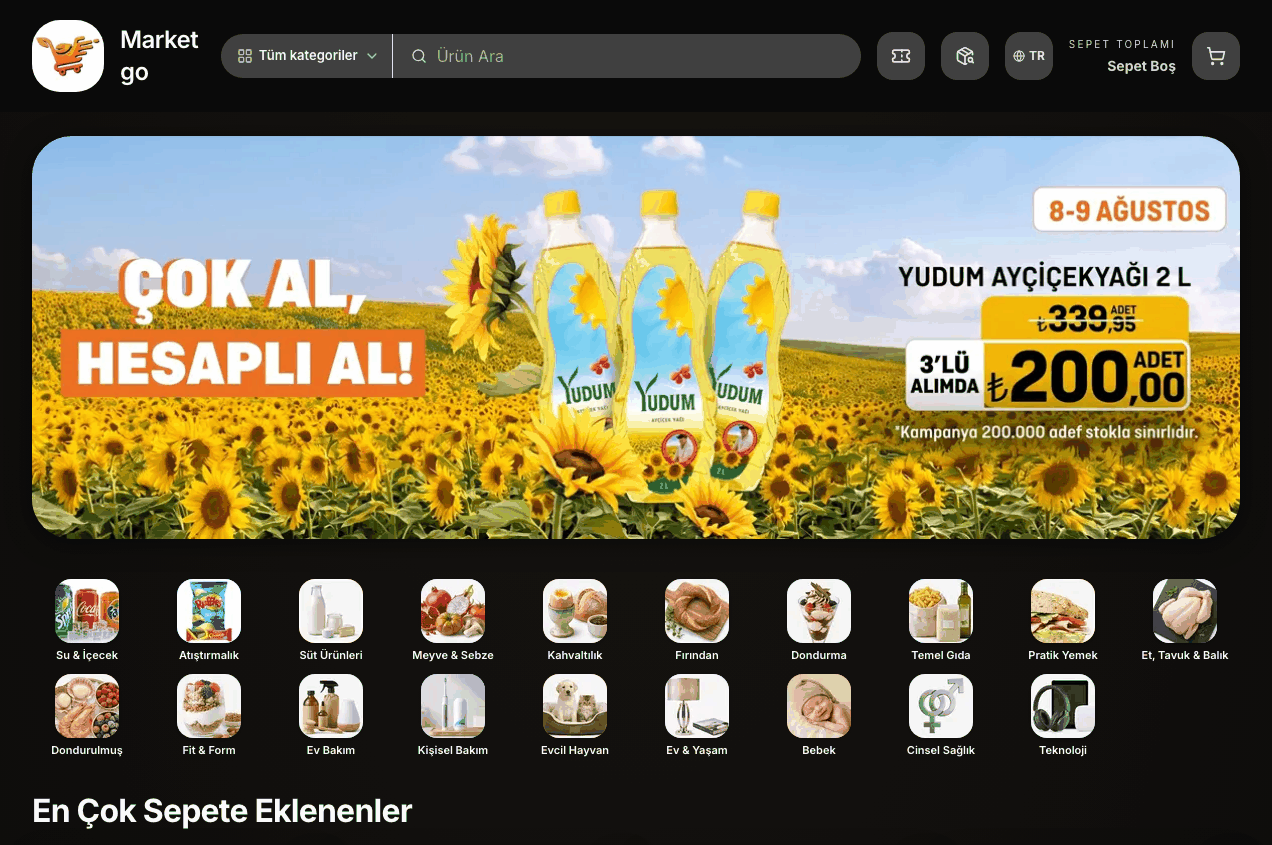
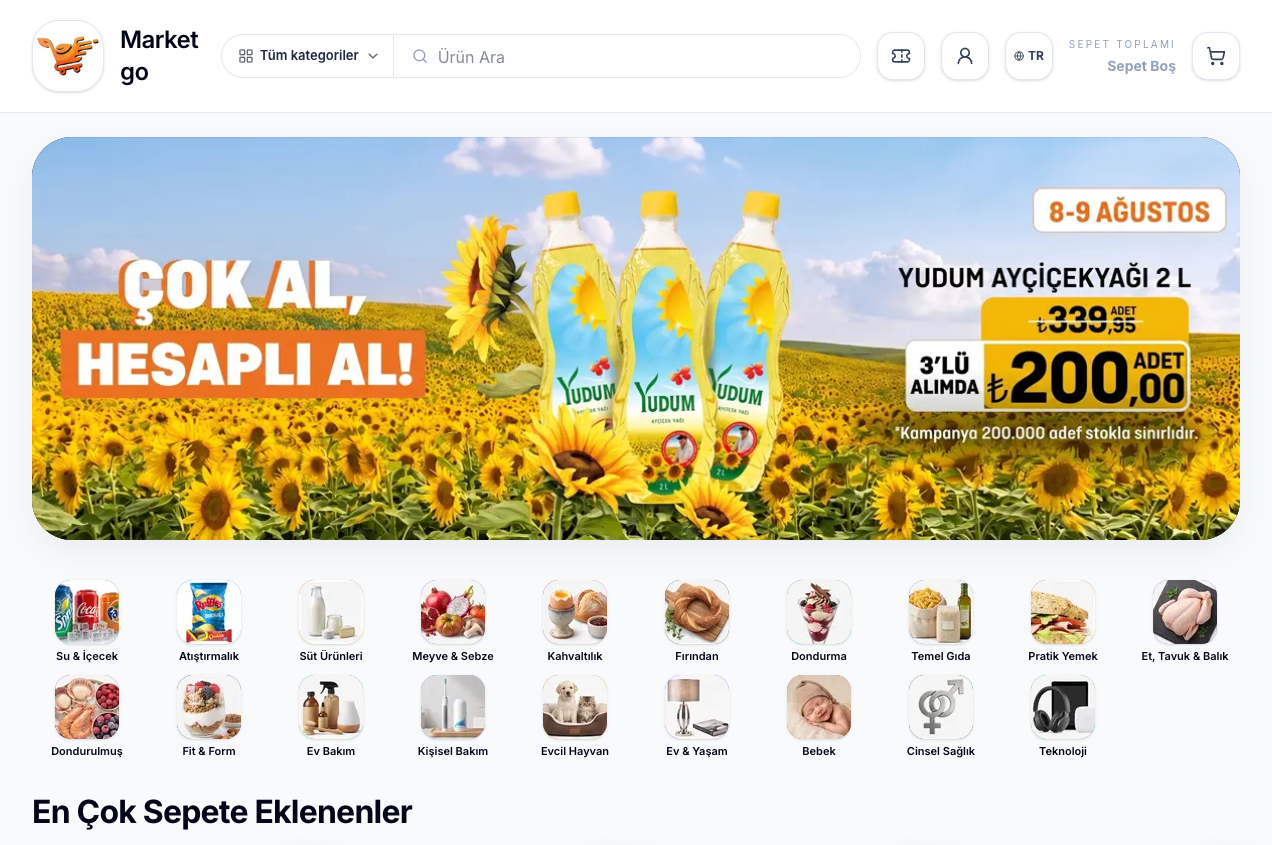
Pazarlama sitesi: market tanıtımı yeni özelliklerle (üyelik, sipariş takibi, adresler, Getir tarzı sipariş ekranı, yardım sayfaları), online ödeme iyzico/PayTR/Paynet; marketgo ekran görüntüleri beyaz temayla yenilendi

diff --git a/app/(marketing)/sektorler/market-bakkal/page.tsx b/app/(marketing)/sektorler/market-bakkal/page.tsx
@@ -1,33 +1,38 @@
 import Image from "next/image";
 import Link from "next/link";
-import { MapPin, ShoppingBasket, Bell, Clock3, PackageCheck, QrCode, ArrowUpRight, Languages } from "lucide-react";
+import { MapPin, Bell, Clock3, PackageCheck, QrCode, ArrowUpRight, Languages, Smartphone, UserRound, CreditCard, Pencil, LifeBuoy } from "lucide-react";
 import { ButtonLink, Container } from "@/components/marketing/ui";
 import { marketingMetadata } from "@/lib/marketing/metadata";
 import { SITE } from "@/lib/marketing/site";
 import { Accent, BandCard, Breadcrumb, ClosingCta, CustomerMarquee, FaqList, PageHero, TintBox, pastelStyle } from "@/components/marketing/home-v2/page-kit";
 
-export const metadata = marketingMetadata("/sektorler/market-bakkal", "Market ve Bakkal Sipariş Programı: Online Katalog", "Marketiniz için online katalog, konumlu WhatsApp siparişi, mobil sepet ve kampanya bildirimleri. Kurumsal pakette marketlere 200 QR magnet hediye.");
+export const metadata = marketingMetadata("/sektorler/market-bakkal", "Market ve Bakkal Sipariş Programı: Online Katalog", "Marketiniz için online katalog: müşteri üyeliği ve sipariş takibi, kayıtlı adresler, kapıda veya online ödeme (iyzico, PayTR, Paynet), konumlu WhatsApp siparişi ve bildirimler. Kurumsal pakette 200 QR magnet hediye.");
 const features = [
-  { icon: Languages, title: "Yabancı müşterileriniz için İngilizce, Almanca ve Rusça", body: "Kataloğunuzda yabancı müşterileriniz için İngilizce, Almanca ve Rusça dil seçenekleri mevcuttur. Müşterileriniz dil menüsünden tercih ettikleri dili seçerek kataloğunuzu kullanabilir." },
-  { icon: MapPin, title: "Siparişin yanında müşterinizin konumu", body: "Müşteriniz isterse cihazından konum paylaşımına izin verir. Konum bağlantısı WhatsApp sipariş mesajına eklenir; yazılı adresle birlikte teslimat için kullanabilirsiniz." },
-  { icon: ShoppingBasket, title: "Mobilde her an erişilen sepet", body: "Müşteriniz ürünleri incelerken ekranın altındaki sabit sepet alanına kolayca ulaşır. Ürün adetlerini düzenler, toplamını görür ve sipariş bilgilerine geçer." },
-  { icon: PackageCheck, title: "Siparişler tek yerde, durumları takipte", body: "Bildirim izni veren müşterilerinize “Siparişiniz onaylandı”, “Siparişiniz hazırlanıyor” ve “Siparişiniz yola çıktı” bildirimleri gönderin. Müşteriniz Sipariş Takip sayfasından da siparişinin hangi aşamada olduğunu görsün." },
-  { icon: Bell, title: "Bir süredir sipariş vermeyen müşterinizi geri kazanın", body: "Bildirim izni veren müşterilerinize hafta sonuna özel kampanya bildirimleri gönderin. Sürekli sipariş veren ama uzun zamandır alışveriş yapmayan müşterilerinize marketinizi hatırlatın, yeniden sipariş vermelerini teşvik edin. Bildirim gönderme Profesyonel ve Kurumsal paketlerde bulunur." },
-  { icon: Clock3, title: "Çalışma saatleri ve kapalı mağaza durumu", body: "Mağazanızın çalışma saatlerini belirleyin; kapalı olduğunuzda müşterinizi bilgilendirin. Sipariş almaya ilişkin ayarları işletmenizin çalışma düzenine göre yönetin." },
-  { icon: ShoppingBasket, title: "Sipariş koşullarını siz belirleyin", body: "Minimum sepet tutarını ve müşteriden istenen bilgilerin zorunluluğunu ayarlayın. Teslimat ücreti ve ücretsiz teslimat eşiğiyle sipariş maliyetlerini müşterinize açıkça gösterin." },
+  { icon: Smartphone, title: "Uygulama gibi alt menü", body: "Müşteriniz Ana sayfa, Arama, Sepet, Hesabım ve Kampanyalar'a ekranın altındaki menüden tek dokunuşla ulaşır. Sepet tutarı sağ üstte her an görünür; ana ekrana eklendiğinde uygulama gibi açılır." },
+  { icon: UserRound, title: "Müşteri üyeliği ve Hesabım", body: "Müşteriniz telefon numarası ve şifresiyle üye olur. Hesabım'da siparişlerini, adreslerini, bilgilerini ve bildirim tercihlerini yönetir. Üye olmadan da sipariş verebilir; siparişten sonra bilgileri dolu kayıt ekranı çıkar." },
+  { icon: PackageCheck, title: "Siparişini adım adım takip eder", body: "Onaylandı, hazırlanıyor, yola çıktı ve teslim edildi durumlarını üye müşteriniz Siparişlerim'de görür. Durum değişince telefonuna bildirim, telefonda bildirim açık değilse e-postasına marketinizin adıyla bilgi gelir." },
+  { icon: MapPin, title: "Kayıtlı adresler, başkasına sipariş", body: "Müşteriniz Ev, İşyeri gibi başlıklarla birden çok adres kaydeder; siparişte adresini seçer. Annesinin evine göndermek isterse teslim alacak kişinin adını ve telefonunu adrese yazar. İsterse konumunu da ekler." },
+  { icon: CreditCard, title: "Kapıda veya online ödeme", body: "Kapıda nakit ve kapıda kart seçenekleri her pakette. Kurumsal pakette kendi iyzico, PayTR veya Paynet hesabınızı bağlayın; müşteriniz sepette kartla online ödesin, para doğrudan sizin hesabınıza geçsin." },
+  { icon: Pencil, title: "Stokta kalmayan ürünü fişten çıkarın", body: "Gelen siparişte ürün eksikse panelden fişi düzenleyin: ürün çıkarın, adet ya da fiyat değiştirin, yeni ürün ekleyin. Güncel fişi müşterinize WhatsApp'tan tek dokunuşla gönderin." },
+  { icon: LifeBuoy, title: "Yardım sayfaları ve sözleşmeler hazır", body: "Müşteri hizmetleri, Hakkımızda ve Sıkça Sorulan Sorular sayfalarını panelden yazın. Mesafeli satış, ön bilgilendirme, iptal-iade ve KVKK metinleri bilgilerinizle otomatik oluşur." },
+  { icon: Bell, title: "Bir süredir sipariş vermeyen müşterinizi geri kazanın", body: "Bildirim izni veren müşterilerinize hafta sonuna özel kampanya bildirimleri gönderin. Uzun zamandır alışveriş yapmayan müşterilerinize marketinizi hatırlatın. Bildirim gönderme Profesyonel ve Kurumsal paketlerde bulunur." },
+  { icon: Languages, title: "Yabancı müşterileriniz için İngilizce, Almanca ve Rusça", body: "Kataloğunuzda İngilizce, Almanca ve Rusça dil seçenekleri mevcuttur. Müşterileriniz Hesabım > Dil Seçenekleri'nden tercih ettikleri dili seçer." },
+  { icon: Clock3, title: "Çalışma saatleri ve sipariş koşulları", body: "Çalışma saatlerinizi belirleyin, kapalıyken müşterinizi bilgilendirin. Minimum sepet tutarını, teslimat ücretini ve ücretsiz teslimat eşiğini siz ayarlayın." },
 ];
 const faq = [
-  { q: "Müşterim uygulama indirmek zorunda mı?", a: "Hayır. Katalog bağlantısı veya QR magnet üzerinden tarayıcıda açılır. Müşteriniz ürünleri seçip sepetini oluşturabilir." },
-  { q: "Konum paylaşmak zorunlu mu?", a: "Hayır. Müşteriniz konum eklemeyi seçer ve cihazındaki konum iznini onaylarsa konum bağlantısı sipariş mesajına eklenir. Yazılı adres ve sipariş notu alanları da kullanılabilir." },
-  { q: "Sipariş WhatsApp üzerinden nasıl gönderilir?", a: "Müşteri sepetini ve bilgilerini tamamladığında sipariş mesajı hazırlanır. WhatsApp üzerinden gönderimi müşteri tamamlar. Konum paylaşmışsa bağlantısı da mesajda yer alır; sipariş kayıtları panelden takip edilebilir." },
+  { q: "Müşterim uygulama indirmek zorunda mı?", a: "Hayır. Katalog bağlantısı veya QR magnet üzerinden tarayıcıda açılır. İsterse ana ekranına ekler, uygulama gibi kullanır." },
+  { q: "Müşterim üye olmak zorunda mı?", a: "Hayır, üye olmadan da sipariş verebilir. Siparişini takip etmek, adreslerini kaydetmek ve bilgilerini her seferinde yazmamak için telefon numarası ve şifreyle üye olur. Siparişten sonra bilgileri dolu bir kayıt ekranı çıkar; kaydolunca verdiği sipariş Siparişlerim'e düşer." },
+  { q: "Müşterim siparişini nasıl takip eder?", a: "Üye müşteriniz Hesabım > Siparişlerim'de siparişinin onaylandı, hazırlanıyor, yola çıktı gibi her adımını görür. Telefonunda bildirimi açarsa durum değişince bildirim gelir; açmazsa ve e-posta bildirimini seçerse marketinizin adıyla e-posta gider. Başkasının numarasını yazarak sipariş görülemez." },
+  { q: "Online ödeme alabilir miyim?", a: "Kurumsal pakette alabilirsiniz. Kendi iyzico, PayTR veya Paynet üye işyeri hesabınızın anahtarlarını panelden girersiniz; müşteriniz sepette Online Ödeme'yi seçip kartıyla öder, para doğrudan sizin hesabınıza geçer. eKatalox komisyon almaz; işlem ücretini kendi sağlayıcı sözleşmeniz belirler. Kapıda nakit ve kapıda kart seçenekleri her pakette vardır." },
+  { q: "Konum paylaşmak zorunlu mu?", a: "Hayır. Müşteriniz konum eklemeyi seçer ve cihazındaki konum iznini onaylarsa konum bağlantısı siparişe eklenir. Yazılı adres ve sipariş notu alanları da kullanılabilir." },
+  { q: "Sipariş size nasıl ulaşır?", a: "Müşteri siparişi tamamladığında sipariş panelinize düşer, PDF fişiyle birlikte WhatsApp mesajı hazırlanır. Konum paylaşmışsa bağlantısı da mesajda yer alır. Online ödendiyse sipariş panelde ödendi olarak görünür." },
   { q: "200 adet QR magnet hangi pakette hediye?", a: "Market işletmelerine Kurumsal pakette 200 adet QR kodlu magnet hediye edilir. Müşteriniz magneti okutarak marketinizin kataloğuna ulaşır. Bu hediye market işletmelerine özeldir." },
   { q: "Marketler ve toptancılar için fiyatlar farklı mı?", a: "Hayır. Aynı paketlerin fiyatları ve limitleri ortaktır. Sektöre göre kullanım örnekleri değişir; marketlere özel 200 magnet hediyesi Kurumsal pakette sunulur." },
-  { q: "Her müşteriye bildirim gönderebilir miyim?", a: "Kampanya bildirimleri bildirim izni veren müşterilere gönderilir. Bildirimlerin ulaşması müşterinin cihazına, tarayıcısına ve izin ayarlarına bağlıdır. Kampanya bildirimi gönderme Profesyonel ve Kurumsal paketlerde bulunur." },
 ];
 const FLOW = [
   ["Magneti okutur veya bağlantıyı açar", "Müşteriniz buzdolabındaki QR magnetten ya da paylaştığınız bağlantıdan marketinizin kataloğuna ulaşır."],
-  ["Ürünleri ve teslimat bilgilerini seçer", "Ürünleri sepete ekler; adresini, sipariş notunu ve isterse konum bilgisini paylaşır."],
-  ["Siparişini WhatsApp’tan gönderir", "Hazırlanan sipariş mesajını size iletir. Siz panelde siparişini takip eder, hazırlık sürecini yönetirsiniz."],
+  ["Sepetini doldurur, adresini seçer", "Ürünleri sepete ekler; kayıtlı adresini, sipariş notunu ve ödeme yöntemini seçer. İsterse konumunu ekler."],
+  ["Siparişini verir, adım adım takip eder", "Kapıda öder ya da online öder. Sipariş panelinize düşer; onaylayıp hazırladıkça müşteriniz durumunu Siparişlerim'de ve bildirimle görür."],
 ];
 
 // TASLAK (14 Eki 2026): market sayfası Beacons dilinde; metinler ve şema aynı.
@@ -47,19 +52,19 @@ export default function MarketPage() {
       breadcrumb={<Breadcrumb items={[{ href: "/sektorler", label: "Sektörler" }, { label: "Market & Bakkallar" }]} />}
       eyebrow="Mahallenizin marketi, müşterinizin cebinde"
       title={<>Market siparişlerinizi konum bilgisiyle <Accent>WhatsApp’tan alın.</Accent></>}
-      lead="Ürünlerinizi online kataloğunuzda sunun. Müşteriniz sepetini oluştursun, adresini ve isterse konumunu ekleyip siparişini size iletsin."
+      lead="Ürünlerinizi online kataloğunuzda sunun. Müşteriniz sepetini oluştursun, adresini ve isterse konumunu ekleyip kapıda ya da online ödesin; siparişini adım adım takip etsin."
       actions={<><ButtonLink href="/basvuru?sektor=market-bakkal" tone="navy" size="lg" className="px-9">Marketinizi ücretsiz açın</ButtonLink><ButtonLink href="https://marketgo.ekatalox.com" tone="outline" size="lg" external>MarketGo demosunu incele <ArrowUpRight className="size-4" aria-hidden /></ButtonLink></>}
       className="pb-6 sm:pb-8"
     >
       <p className="mt-6 text-center text-sm text-brand-muted">Uygulama indirmeden katalog erişimi · Sipariş başına eKatalox komisyonu yok</p>
       <div className="relative mx-auto mt-12 flex max-w-5xl flex-col items-center gap-8 overflow-hidden rounded-[32px] p-8 sm:flex-row sm:p-12" style={pastelStyle(0)}>
         <figure className="w-full max-w-[250px] shrink-0 sm:max-w-[270px]">
-          <div className="overflow-hidden rounded-[2rem] border-[5px] border-white/70 shadow-2xl"><Image src="/site/demo-market-iphone.png" alt="MarketGo mobil kataloğu: görselli kategoriler ve altta sabit Ara, Sepet, Kampanyalar menüsü" width={1206} height={2622} priority sizes="270px" className="h-auto w-full" /></div>
+          <div className="overflow-hidden rounded-[2rem] border-[5px] border-white/70 shadow-2xl"><Image src="/site/demo-market-iphone.png" alt="MarketGo mobil kataloğu: sağ üstte sepet tutarı, görselli kategoriler ve altta Ana sayfa, Arama, Sepet, Hesabım, Kampanyalar menüsü" width={1206} height={2622} priority sizes="270px" className="h-auto w-full" /></div>
           <figcaption className="mt-3 text-center text-xs text-brand-navy/60">MarketGo demo mağazasından gerçek ekran. Fiyat ve kampanyalar örnektir.</figcaption>
         </figure>
         <div className="text-left">
           <div className="inline-flex items-center gap-3 rounded-2xl bg-white/80 p-4"><QrCode className="size-7 shrink-0 text-brand-navy" aria-hidden /><p className="text-sm"><strong className="block text-brand-navy">Kurumsal pakette 200 QR magnet hediye</strong><span className="text-brand-navy/70">Market işletmelerine özel.</span></p></div>
-          <h2 className="mt-6 text-3xl font-extrabold leading-[1.05] tracking-[-0.03em] text-brand-navy sm:text-4xl">Kataloğu açar. Sepetini doldurur. Size iletir.</h2>
+          <h2 className="mt-6 text-3xl font-extrabold leading-[1.05] tracking-[-0.03em] text-brand-navy sm:text-4xl">Kataloğu açar. Sepetini doldurur. Siparişini takip eder.</h2>
           <ol className="mt-6 space-y-3">
             {FLOW.map(([title, body], i) => <li key={title} className="flex gap-3 rounded-2xl bg-white/70 p-4"><span className="text-2xl font-extrabold tracking-[-0.03em] text-brand-navy">0{i + 1}</span><span><span className="block font-semibold text-brand-navy">{title}</span><span className="block text-sm leading-relaxed text-brand-navy/70">{body}</span></span></li>)}
           </ol>
@@ -68,14 +73,34 @@ export default function MarketPage() {
     </PageHero>
 
     <section className="bg-white pb-16 sm:pb-20">
+      <Container className="grid items-center gap-10 lg:grid-cols-[1.4fr_1fr]">
+        <div>
+          <p className="text-xs font-semibold uppercase tracking-[0.16em] text-brand-green">Alıştıkları sipariş ekranı</p>
+          <h2 className="mt-3 text-balance text-3xl font-extrabold leading-[1.05] tracking-[-0.03em] text-brand-navy sm:text-5xl">Adres, not, ödeme: <Accent>tek ekranda.</Accent></h2>
+          <p className="mt-5 text-lg leading-relaxed text-brand-muted">Müşteriniz büyük market uygulamalarından alıştığı düzende siparişini tamamlar: teslimat adresini seçer, &quot;Siparişi kapıya bırak&quot;, &quot;Zili çalma&quot; gibi notları işaretler, ödeme yöntemini seçer, sepet ve ödeme özetini görür.</p>
+          <ul className="mt-6 space-y-3 text-[15px] leading-relaxed text-brand-navy/80">
+            <li className="flex gap-3"><CreditCard className="mt-0.5 size-5 shrink-0 text-brand-navy" aria-hidden /><span><strong className="text-brand-navy">Kapıda nakit ve kapıda kart</strong> her pakette. <strong className="text-brand-navy">Online ödeme</strong> Kurumsal pakette: kendi iyzico, PayTR veya Paynet hesabınızla; para doğrudan size geçer, kart bilgisi eKatalox&apos;a gelmez.</span></li>
+            <li className="flex gap-3"><UserRound className="mt-0.5 size-5 shrink-0 text-brand-navy" aria-hidden /><span>Üye müşteri kayıtlı adresini seçer; üye olmayan &quot;Üye olmadan devam et&quot; der, bilgilerini yazar.</span></li>
+            <li className="flex gap-3"><PackageCheck className="mt-0.5 size-5 shrink-0 text-brand-navy" aria-hidden /><span>Sipariş panelinize düşer; durumunu güncelledikçe müşteriniz bildirim veya e-postayla haberdar olur.</span></li>
+          </ul>
+        </div>
+        <div className="grid grid-cols-2 gap-4 rounded-[28px] p-6 sm:p-8" style={pastelStyle(1)}>
+          <figure><Image src="/site/demo-market-odeme.png" alt="Market sipariş ekranı: teslimat bilgileri, sipariş notu seçenekleri, ödeme yöntemi ve Sipariş Ver tutarı" width={780} height={1696} sizes="(max-width: 1024px) 45vw, 240px" className="h-auto w-full rounded-3xl border border-white/70 shadow-lg" /></figure>
+          <figure className="mt-10"><Image src="/site/demo-market-odeme-yontemi.png" alt="Ödeme yöntemleri: kapıda nakit ödeme ve kapıda kart ile ödeme" width={780} height={1696} sizes="(max-width: 1024px) 45vw, 240px" className="h-auto w-full rounded-3xl border border-white/70 shadow-lg" /></figure>
+          <figcaption className="col-span-2 text-center text-xs text-brand-navy/60">MarketGo demo mağazasından gerçek ekranlar. Online ödeme, sağlayıcı hesabı bağlanan mağazalarda listede görünür.</figcaption>
+        </div>
+      </Container>
+    </section>
+
+    <section className="bg-white pb-16 sm:pb-20">
       <Container className="grid items-center gap-8 lg:grid-cols-[1fr_1.5fr]">
         <div className="flex justify-center rounded-[28px] p-8" style={pastelStyle(3)}>
-          <figure className="w-full max-w-[280px]"><Image src="/site/demo-konum.png" alt="Market sipariş formunda isteğe bağlı şu anki konumumu ekle seçeneği, adres ve sipariş notu" width={780} height={1688} sizes="280px" className="h-auto w-full rounded-3xl border border-white/70 shadow-lg" /><figcaption className="mt-3 text-center text-xs text-brand-navy/60">Gerçek sipariş ekranı; tutarlar demo ayarlarını gösterir.</figcaption></figure>
+          <figure className="w-full max-w-[280px]"><Image src="/site/demo-konum.png" alt="Market sipariş ekranında ad, adres ve isteğe bağlı şu anki konumumu ekle seçeneği" width={780} height={1688} sizes="280px" className="h-auto w-full rounded-3xl border border-white/70 shadow-lg" /><figcaption className="mt-3 text-center text-xs text-brand-navy/60">Gerçek sipariş ekranı; tutarlar demo ayarlarını gösterir.</figcaption></figure>
         </div>
         <div>
           <p className="text-xs font-semibold uppercase tracking-[0.16em] text-brand-green">Teslimat için daha net bilgi</p>
           <h2 className="mt-3 text-balance text-3xl font-extrabold leading-[1.05] tracking-[-0.03em] text-brand-navy sm:text-5xl">“<Accent>Konum atar mısınız?</Accent>” konuşmasını siparişin içinde çözün.</h2>
-          <p className="mt-5 text-lg leading-relaxed text-brand-muted">Müşteriniz yazılı adresinin yanında konumunu da ekleyebilir. Konum bağlantısı WhatsApp sipariş mesajında yer alır; teslimat için ihtiyaç duyduğunuz bilgileri birlikte görürsünüz.</p>
+          <p className="mt-5 text-lg leading-relaxed text-brand-muted">Müşteriniz yazılı adresinin yanında konumunu da ekleyebilir; üye müşteriniz kayıtlı adresini seçerken de. Konum bağlantısı siparişte yer alır; teslimat için ihtiyaç duyduğunuz bilgileri birlikte görürsünüz.</p>
           <p className="mt-4 leading-relaxed text-brand-muted">Konum paylaşımı müşterinin tercihine ve cihaz iznine bağlıdır. Apartman, daire ve teslimat notu gibi ayrıntılar için adres ve sipariş notu alanlarını kullanabilirsiniz.</p>
         </div>
       </Container>
@@ -126,9 +151,9 @@ export default function MarketPage() {
       <Container>
         <TintBox index={2} className="text-center">
           <h2 className="text-3xl font-extrabold tracking-[-0.03em] text-brand-navy sm:text-4xl">Müşterinizin göreceği kataloğu deneyin.</h2>
-          <p className="mx-auto mt-4 max-w-2xl leading-relaxed text-brand-navy/70">MarketGo, market kullanımını inceleyebileceğiniz demo mağazamızdır. Kategorileri, mobil sepeti ve sipariş ekranlarını keşfedin.</p>
+          <p className="mx-auto mt-4 max-w-2xl leading-relaxed text-brand-navy/70">MarketGo, market kullanımını inceleyebileceğiniz demo mağazamızdır. Kategorileri, alt menüyü, sipariş ekranını, Hesabım ve Yardım sayfalarını keşfedin.</p>
           <div className="mt-7 flex flex-wrap justify-center gap-3"><ButtonLink href="https://marketgo.ekatalox.com" tone="navy" external>MarketGo demosunu aç</ButtonLink><ButtonLink href="/fiyatlandirma?gorunum=market" tone="white">Market paketlerini karşılaştır</ButtonLink></div>
-          <p className="mt-5 text-sm text-brand-navy/70">Ürünlerinizi topluca aktarmak için <Link href="/ozellikler/toplu-urun-yukleme" className="font-semibold text-brand-navy underline">toplu ürün yüklemeyi</Link>, ödeme seçenekleri için <Link href="/ozellikler/online-odeme" className="font-semibold text-brand-navy underline">İyzico/Paytr entegrasyonunu</Link> inceleyin.</p>
+          <p className="mt-5 text-sm text-brand-navy/70">Ürünlerinizi topluca aktarmak için <Link href="/ozellikler/toplu-urun-yukleme" className="font-semibold text-brand-navy underline">toplu ürün yüklemeyi</Link>, online ödeme için <Link href="/ozellikler/online-odeme" className="font-semibold text-brand-navy underline">iyzico, PayTR ve Paynet entegrasyonunu</Link> inceleyin.</p>
         </TintBox>
       </Container>
     </section>

diff --git a/lib/marketing/features.ts b/lib/marketing/features.ts
@@ -199,30 +199,30 @@ export const MARKETING_FEATURES: MarketingFeature[] = [
   },
   {
     "slug": "online-odeme",
-    "seoTitle": "Katalogdan Online Ödeme: İyzico ve PayTR",
-    "metaDescription": "Bayileriniz katalogdan ödeme yapsın istiyorsanız iyzico veya PayTR entegrasyonunu birlikte planlayalım. Kurumsal pakette, kapsam görüşmeyle belirlenir.",
+    "seoTitle": "Katalogdan Online Ödeme: iyzico, PayTR ve Paynet",
+    "metaDescription": "Kendi iyzico, PayTR veya Paynet hesabınızı bağlayın; müşteriniz sepette kartla ödesin, para doğrudan sizin hesabınıza geçsin. Kurumsal pakette; eKatalox komisyon almaz.",
     "title": "Kataloğunuzdan online ödeme alın",
-    "lead": "İyzico veya PayTR ile kataloğunuzdan ödeme almak için entegrasyonu birlikte planlayalım.",
-    "plan": "Kurumsal paket · Sağlayıcı başvurusu ve entegrasyon kapsamı birlikte netleştirilir",
+    "lead": "Kendi iyzico, PayTR veya Paynet hesabınızı panelden bağlayın. Müşteriniz sepette Online Ödeme'yi seçsin, kartıyla güvenle ödesin; para doğrudan sizin hesabınıza geçsin.",
+    "plan": "Kurumsal paket · eKatalox ödeme başına komisyon almaz",
     "sections": [
       {
-        "title": "Sipariş ve ödeme ihtiyacınızı birlikte değerlendirelim",
-        "body": "Bayilerinizin sipariş oluştururken katalog üzerinden ödeme yapmasını istiyorsanız kullandığınız sağlayıcıyı ve tahsilat düzeninizi bizimle paylaşın. Katalog, sipariş ve ödeme adımlarının işletmenizde nasıl işleyeceğini birlikte belirleyelim."
+        "title": "Üç sağlayıcı, sizin hesabınız",
+        "body": "iyzico, PayTR veya Paynet'ten hangisiyle çalışıyorsanız onun üye işyeri anahtarlarını Ayarlar > Ödeme ve Kampanyalar'a girin. Ödemeler sizin sağlayıcı hesabınıza düşer; komisyon oranını ve hakediş süresini kendi sözleşmeniz belirler."
       },
       {
-        "title": "Sağlayıcı hesabı ve işletme koşulları",
-        "body": "İyzico veya Paytr üzerinden çalışmak, ilgili sağlayıcının işletme başvurusu ve sözleşme koşullarına tabidir. Mevcut sağlayıcı hesabınız varsa kurulum görüşmesinde belirtin. Sağlayıcının istediği bilgileri kendi güvenli başvuru kanalları üzerinden iletin."
+        "title": "Müşteri sepette kartla öder",
+        "body": "Müşteriniz kapıda nakit, kapıda kart ve online ödeme seçenekleri arasından seçim yapar. Online ödemede kart bilgisini ödeme kuruluşunun güvenli sayfasına girer; kart bilgisi eKatalox'a hiç gelmez."
       },
       {
-        "title": "Paket bedeli ile tahsilat ücretini ayırın",
-        "body": "eKatalox paket ücretini fiyatlandırma sayfasından inceleyin. Ödeme sağlayıcısının işlem komisyonları ve diğer hizmet bedelleri, sağlayıcı sözleşmesine göre ayrıca değerlendirilir. Entegrasyon kapsamını ve varsa ek kurulum hizmetini başlamadan önce netleştirin."
+        "title": "Ödenen sipariş panelde ve fişte görünür",
+        "body": "Ödeme onaylanınca sipariş panelde \"Ödendi\" olarak işaretlenir, tutarı ve saati görünür. Sipariş fişi ödeme bilgisiyle yeniden üretilir, WhatsApp mesajına \"Online ödeme alındı\" satırı eklenir."
       },
       {
-        "title": "İşletmenize uygun kurulum",
-        "body": "Kullandığınız sağlayıcıyı, katalog adresinizi ve ödeme ihtiyacınızı paylaşarak bize ulaşın. Paket seçimi, sağlayıcı koşulları ve entegrasyon adımlarını birlikte görüşelim."
+        "title": "Önce test edin, sonra açın",
+        "body": "Sağlayıcının test anahtarlarıyla test modunu açın, gerçek para çekilmeden deneyin. Online ödemeyi açmak için Yasal Bilgiler'de satıcı bilgileriniz ve mesafeli satış, ön bilgilendirme, iptal-iade ve KVKK metinleriniz hazır olmalıdır; bu metinler bilgilerinizle otomatik oluşturulur."
       }
     ],
-    "example": "Örneğin halihazırda Paytr ile çalışan bir işletme, aynı sağlayıcıyla katalogdan tahsilat ihtiyacını iletebilir. Kurulum kapsamı mevcut hesap ve işletmenin sipariş düzeni üzerinden değerlendirilir.",
+    "example": "Örneğin PayTR ile çalışan bir market, PayTR mağaza panelindeki entegrasyon bilgilerini eKatalox'a girer. Müşteri sepette Online Ödeme'yi seçer, PayTR'nin güvenli ödeme sayfasında öder; sipariş markete ödendi olarak düşer.",
     "related": [
       "whatsapp-siparis",
       "kurumsal-site"

diff --git a/components/marketing/pricing-content.tsx b/components/marketing/pricing-content.tsx
@@ -30,7 +30,7 @@ const COMPARISON: Row[] = [
   { label: "Tema, gelişmiş görünüm, ana sayfa düzenleyici", cells: [true, true, true, true] },
   { label: "Raporlar (arama, sepete ekleme, il–fiyat listesi)", cells: [false, true, true, true] },
   { label: "Kurumsal site ve Bayimiz ol formu", cells: [false, false, false, "Pakete dahil"] },
-  { label: "İyzico/Paytr ile online ödeme", cells: [false, false, false, true] },
+  { label: "Online ödeme (iyzico, PayTR, Paynet)", cells: [false, false, false, true] },
   { label: "BizimHesap entegrasyonu (sipariş → satış fişi)", cells: [false, false, false, true] },
   { label: "Kendi alan adınız", cells: [false, false, false, true] },
   { label: "Bayilere bildirim gönderme", cells: [false, false, true, true] },
@@ -41,7 +41,7 @@ const COMPARISON: Row[] = [
 
 const FAQ = [
   { q: "Kurumsal site için ayrıca ücret öder miyim?", a: "Kurumsal tanıtım sitesi ve Bayimiz ol formu Kurumsal pakete dahildir; ayrıca kurumsal site paket ücreti yoktur. Alan adı satın alma/yenileme giderleri ve varsa özel hizmet kapsamı ayrıca netleştirilir." },
-  { q: "Katalogdan ödeme alabilir miyim?", a: "İyzico/Paytr entegrasyonuyla kataloğunuzdan ödeme alın. Kurumsal pakette sağlayıcı başvurusu, entegrasyon kapsamı ve varsa ek kurulum hizmeti birlikte netleştirilir; sağlayıcı işlem ücretleri paket bedeline dahil değildir." },
+  { q: "Katalogdan ödeme alabilir miyim?", a: "Evet, Kurumsal pakette. Kendi iyzico, PayTR veya Paynet hesabınızın anahtarlarını panelden girersiniz; müşteriniz sepette kartla öder, para doğrudan sizin hesabınıza geçer. Sağlayıcının işlem ücretleri paket bedeline dahil değildir, kendi sözleşmenize göre uygulanır." },
   { q: "Ön muhasebe programımla çalışır mı?", a: "BizimHesap kullanıyorsanız Kurumsal pakette onayladığınız siparişler BizimHesap'a satış fişi olarak aktarılır; cari, ürün ve depo eşleştirmesi bir kez yapılır. Ayrıntılar BizimHesap entegrasyonu sayfasında." },
   {
     q: "Ücretsiz planın süresi var mı?",
@@ -65,7 +65,7 @@ const FAQ = [
   },
   {
     q: "Komisyon ya da sipariş başına ücret var mı?",
-    a: "eKatalox sipariş başına komisyon almaz. Online ödeme kullanırsanız İyzico/Paytr gibi sağlayıcıların işlem ücretleri kendi sözleşmenize göre ayrıca uygulanır.",
+    a: "eKatalox sipariş başına komisyon almaz. Online ödeme kullanırsanız iyzico, PayTR veya Paynet'in işlem ücretleri kendi sözleşmenize göre ayrıca uygulanır.",
   },
   {
     q: "Ürün limitim dolarsa?",

diff --git a/app/(marketing)/sektorler/page.tsx b/app/(marketing)/sektorler/page.tsx
@@ -18,7 +18,7 @@ export default function SectorsPage() {
         </BandCard>;
       })}</div>
       <Link href="/sektorler/market-bakkal" className="mt-8 flex flex-col gap-6 rounded-[28px] p-8 sm:flex-row sm:items-center sm:p-10" style={pastelStyle(0)}>
-        <span className="flex size-16 shrink-0 items-center justify-center rounded-2xl bg-white/80 text-brand-navy"><Store className="size-8" aria-hidden /></span><div className="flex-1"><h2 className="text-3xl font-extrabold tracking-[-0.03em] text-brand-navy">Market & Bakkallar</h2><p className="mt-3 max-w-2xl leading-relaxed text-brand-navy/70">Konumlu WhatsApp siparişi, mobil alt sepet ve müşteri bildirimleri. Kurumsal pakette 200 adet QR magnet hediyesi.</p></div><span className="inline-flex shrink-0 items-center gap-2 rounded-full bg-brand-dark px-5 py-3 text-sm font-semibold text-white">MarketGo ile keşfet <ArrowRight className="size-4" aria-hidden /></span>
+        <span className="flex size-16 shrink-0 items-center justify-center rounded-2xl bg-white/80 text-brand-navy"><Store className="size-8" aria-hidden /></span><div className="flex-1"><h2 className="text-3xl font-extrabold tracking-[-0.03em] text-brand-navy">Market & Bakkallar</h2><p className="mt-3 max-w-2xl leading-relaxed text-brand-navy/70">Müşteri üyeliği ve sipariş takibi, kayıtlı adresler, kapıda ya da online ödeme (iyzico, PayTR, Paynet), konumlu sipariş ve bildirimler. Kurumsal pakette 200 adet QR magnet hediyesi.</p></div><span className="inline-flex shrink-0 items-center gap-2 rounded-full bg-brand-dark px-5 py-3 text-sm font-semibold text-white">MarketGo ile keşfet <ArrowRight className="size-4" aria-hidden /></span>
       </Link>
     </Container></Section>
     <CustomerMarquee />

diff --git a/app/(marketing)/ozellikler/page.tsx b/app/(marketing)/ozellikler/page.tsx
@@ -58,7 +58,7 @@ const GROUPS: FeatureGroup[] = [
       { title: "Siparişlerim ve yeni sipariş bildirimi", body: "Siparişlerinizi Siparişlerim sayfasından takip edin. Bildirimleri açtıysanız yeni sipariş geldiğinde haberdar olun." },
       { title: "Minimum sepet tutarı", body: "Minimum sepet tutarı belirleyin; müşteri siparişini belirlediğiniz tutara tamamlasın. Tek para birimli sepetlerde uygulanır." },
       { title: "WhatsApp alıcısını seçme", body: "Siparişi kayıtlı numaranıza yönlendirin veya bu seçeneği kapatıp müşterinizin kendi toptancısı dahil istediği kişiye göndermesine izin verin. Mesajı müşteri WhatsApp’ta gönderir." },
-      { title: "İyzico/Paytr ile ödeme", body: "İyzico/Paytr entegrasyonuyla kataloğunuzdan ödeme alın.", from: "Kurumsal" },
+      { title: "iyzico, PayTR, Paynet ile online ödeme", body: "Kendi iyzico, PayTR veya Paynet hesabınızı bağlayın; müşteriniz sepette kartla online ödesin, para doğrudan sizin hesabınıza geçsin.", from: "Kurumsal" },
       { title: "Sepet önerileri", body: "Sepetteki ürünle birlikte alınanları önerir; bayi eksik kalemi hatırlar, sepet büyür." },
       { title: "Ödeme ve vade ayarları", body: "Peşin indirimi, kart taksit seçenekleri, vadeye göre fiyat notu. Bayi sipariş verirken görür.", from: "Profesyonel" },
     ],

diff --git a/app/(marketing)/page.tsx b/app/(marketing)/page.tsx
@@ -135,7 +135,7 @@ const FEATURES = [
   { icon: BellRing, title: "Kampanyayı müşterinize ulaştırın", body: "Bildirim izni veren müşterilerinize yeni ürün, kampanya ve stok duyuruları gönderin.", href: "/ozellikler/kampanya-bildirimleri", plan: "Profesyonel ve üzeri" },
   { icon: BarChart3, title: "Aramalardan aksiyon alın", body: "En çok aranan ve sepete eklenen ürünleri, il–fiyat listesi girişlerini görün. Ürün sıralaması ve kampanyalarınızı buna göre düzenleyin.", href: "/ozellikler/raporlar", plan: "Başlangıç ve üzeri" },
   { icon: Palette, title: "Kurumsal siteniz pakete dahil", body: "Firmanızı SEO uyumlu açık sayfalarda tanıtın. Bayimiz ol formuyla başvuru alın; ayrıca kurumsal site paket ücreti ödemeyin.", href: "/ozellikler/kurumsal-site", plan: "Kurumsal" },
-  { icon: CreditCard, title: "Kataloğunuzdan ödeme alın", body: "İyzico/Paytr entegrasyonuyla kataloğunuzdan ödeme alın.", href: "/ozellikler/online-odeme", plan: "Kurumsal" },
+  { icon: CreditCard, title: "Kataloğunuzdan ödeme alın", body: "Kendi iyzico, PayTR veya Paynet hesabınızı bağlayın; müşteriniz sepette kartla online ödesin, para doğrudan sizin hesabınıza geçsin.", href: "/ozellikler/online-odeme", plan: "Kurumsal" },
 ];
 
 // İtiraz odaklı SSS (14 Eki 2026): toptancının "ama…" dediği yerler.

diff --git a/app/(marketing)/temalar/page.tsx b/app/(marketing)/temalar/page.tsx
@@ -43,7 +43,7 @@ export default async function Page({ searchParams }: { searchParams: Promise<{ s
                     </a>
                     <div className="flex flex-1 flex-col gap-4 p-6">
                       <h3 className="text-xl font-extrabold tracking-[-0.02em] text-brand-navy">MarketGo</h3>
-                      <p className="flex-1 text-sm leading-6 text-brand-muted">Koyu zeminli market vitrini. Kampanya bannerı, görselli kategori şeridi, mobilde altta sabit sepet ve konumlu WhatsApp siparişi.</p>
+                      <p className="flex-1 text-sm leading-6 text-brand-muted">Beyaz, ferah market vitrini. Kampanya bannerı, görselli kategoriler, mobilde uygulama gibi alt menü, müşteri üyeliği ve sipariş takibi, kapıda ya da online ödemeli sipariş ekranı.</p>
                       <div className="flex flex-wrap gap-2">
                         <a className="rounded-full bg-brand-dark px-4 py-2.5 text-sm font-semibold text-white hover:bg-brand-navy" href="https://marketgo.ekatalox.com" target="_blank" rel="noopener noreferrer">Canlı demoyu aç</a>
                         <Link className="rounded-full border border-brand-line px-4 py-2.5 text-sm font-semibold text-brand-navy hover:border-brand-navy" href={`/basvuru?sektor=${s.value}`}>Bu temayı seç</Link>

diff --git a/app/llms.txt/route.ts b/app/llms.txt/route.ts
@@ -57,7 +57,7 @@ export async function GET() {
 - Sipariş kuralları: minimum sepet tutarı (tek para birimli sepet), müşteri alanlarının görünürlük ve zorunluluk seçimi
 - Mağaza iletişimi: açılış duyurusu, çalışma saatleri ve mağaza kapalı mesajı
 - Kurumsal pakete dahil kurumsal site ve Bayimiz ol formu; başvuruları panelden inceleme
-- İyzico/Paytr entegrasyonuyla kataloğunuzdan ödeme alın. Sağlayıcı sözleşmesi ve işlem ücretleri ayrıca değerlendirilir.
+- Online ödeme (Kurumsal): işletme kendi iyzico, PayTR veya Paynet hesabını panelden bağlar; müşteri sepette kartla öder, para doğrudan işletmenin hesabına geçer, kart bilgisi eKatalox'a gelmez. Test modu var; sağlayıcı işlem ücretleri işletmenin kendi sözleşmesine göre.
 - Ürün yükleme: Excel/CSV içe aktarma, toplu görsel, stok ve fiyat güncelleme
 - Kampanya, indirim, banner, anlık bildirim (yeni ürün, kampanya, stok)
 - Raporlar: ürün aramaları, görüntülenmeler, sepete eklemeler ve il–fiyat listesi girişleri

diff --git a/app/(marketing)/basvuru/page.tsx b/app/(marketing)/basvuru/page.tsx
@@ -24,7 +24,11 @@ export default async function Page({ searchParams }: { searchParams: Promise<Par
       <PageHero
         eyebrow="Ücretsiz kayıt"
         title={<>Kataloğunuzu <Accent>bugün açın.</Accent></>}
-        lead="Üç kısa adım: işletme bilgileri, WhatsApp numarası, giriş bilgileri. Bitince katalog adresiniz hazır, bayilerinize şifreyi gönderirsiniz."
+        lead={
+          first(params.sektor) === "market-bakkal"
+            ? "Üç kısa adım: işletme bilgileri, WhatsApp numarası, giriş bilgileri. Bitince marketinizin adresi hazır; müşterileriniz üye olup sipariş verir, kapıda ya da online öder, siparişini adım adım takip eder."
+            : "Üç kısa adım: işletme bilgileri, WhatsApp numarası, giriş bilgileri. Bitince katalog adresiniz hazır, bayilerinize şifreyi gönderirsiniz."
+        }
         className="pb-6 sm:pb-8"
       >
         <ul className="mt-8 flex flex-wrap justify-center gap-2">

diff --git a/app/(marketing)/sss/page.tsx b/app/(marketing)/sss/page.tsx
@@ -46,7 +46,7 @@ const GROUPS: FaqGroup[] = [
     },
     {
       "q": "Katalogdan online ödeme alabilir miyim?",
-      "a": "İyzico/Paytr entegrasyonuyla kataloğunuzdan ödeme alın. Kurumsal paket kapsamındaki entegrasyon için sağlayıcı hesabınız ve kurulum ihtiyacınız birlikte değerlendirilir. Sağlayıcının işlem ücretleri ve sözleşme koşulları ayrıca geçerlidir."
+      "a": "Evet, Kurumsal pakette. Panelde Ayarlar > Ödeme ve Kampanyalar'dan kendi iyzico, PayTR veya Paynet üye işyeri hesabınızın anahtarlarını girersiniz; müşteriniz sepette Online Ödeme'yi seçip kartıyla ödeme kuruluşunun güvenli sayfasında öder. Para doğrudan sizin hesabınıza geçer, kart bilgisi eKatalox'a gelmez. Önce test modunda deneyebilirsiniz. Açmak için Yasal Bilgiler (satıcı bilgileri ve sözleşmeler) dolu olmalıdır; işlem komisyonunu kendi sağlayıcı sözleşmeniz belirler."
     }
   ]
 },{

diff --git a/components/marketing/signup-form.tsx b/components/marketing/signup-form.tsx
@@ -121,6 +121,10 @@ function stepVisual(step: 0 | 1 | 2, sector: string) {
   const demo = SECTOR_DEMO_VISUALS[sector] ?? SECTOR_DEMO_VISUALS["telefon-aksesuar"];
   const key = SECTOR_DEMO_VISUALS[sector] ? sector : "telefon-aksesuar";
   const base = `/site/sektor/${key}`;
+  // Market (17 Eki 2026): sepet görseli artık sipariş ekranı (adres, not, ödeme yöntemi).
+  if (step === 1 && key === "market-bakkal") {
+    return { src: `${base}-sepet.webp`, alt: "Demo market kataloğunda sipariş ekranı: teslimat bilgileri, sipariş notu, ödeme yöntemi", caption: "Müşterileriniz adresini ve ödeme yöntemini seçip siparişi verir, adım adım takip eder" };
+  }
   if (step === 1) return { src: `${base}-sepet.webp`, alt: `Demo ${demo.name} kataloğunda dolu sepet`, caption: `${demo.audience} siparişi sepetten WhatsApp'a gönderir` };
   if (demo.kind === "theme") {
     return step === 0

diff --git a/lib/marketing/sentence-case.ts b/lib/marketing/sentence-case.ts
@@ -1,7 +1,7 @@
 // Görünen başlıkları cümle düzenine çevirir (14 Eki 2026 taslak): "Excel ile
 // Toplu Ürün Yükleme" → "Excel ile toplu ürün yükleme". Marka/kısaltma
 // sözcükleri korunur; iki nokta sonrası sözcük küçülür. Türkçe İ/I kuralı.
-const KEEP = new Set(["WhatsApp", "Excel", "PDF", "eKatalox", "QR", "ZIP", "Google", "Bing", "URL", "SKU", "iOS", "Android", "Instagram", "BizimHesap", "MarketGo", "İyzico", "PayTR", "Paytr", "CSV", "KVKK", "SEO", "ChatGPT", "IP", "VELIRA"]);
+const KEEP = new Set(["WhatsApp", "Excel", "PDF", "eKatalox", "QR", "ZIP", "Google", "Bing", "URL", "SKU", "iOS", "Android", "Instagram", "BizimHesap", "MarketGo", "İyzico", "iyzico", "PayTR", "Paytr", "Paynet", "CSV", "KVKK", "SEO", "ChatGPT", "IP", "VELIRA"]);
 
 function lowerTr(word: string) {
   return word.replace(/İ/g, "i").replace(/I/g, "ı").toLocaleLowerCase("tr-TR");
